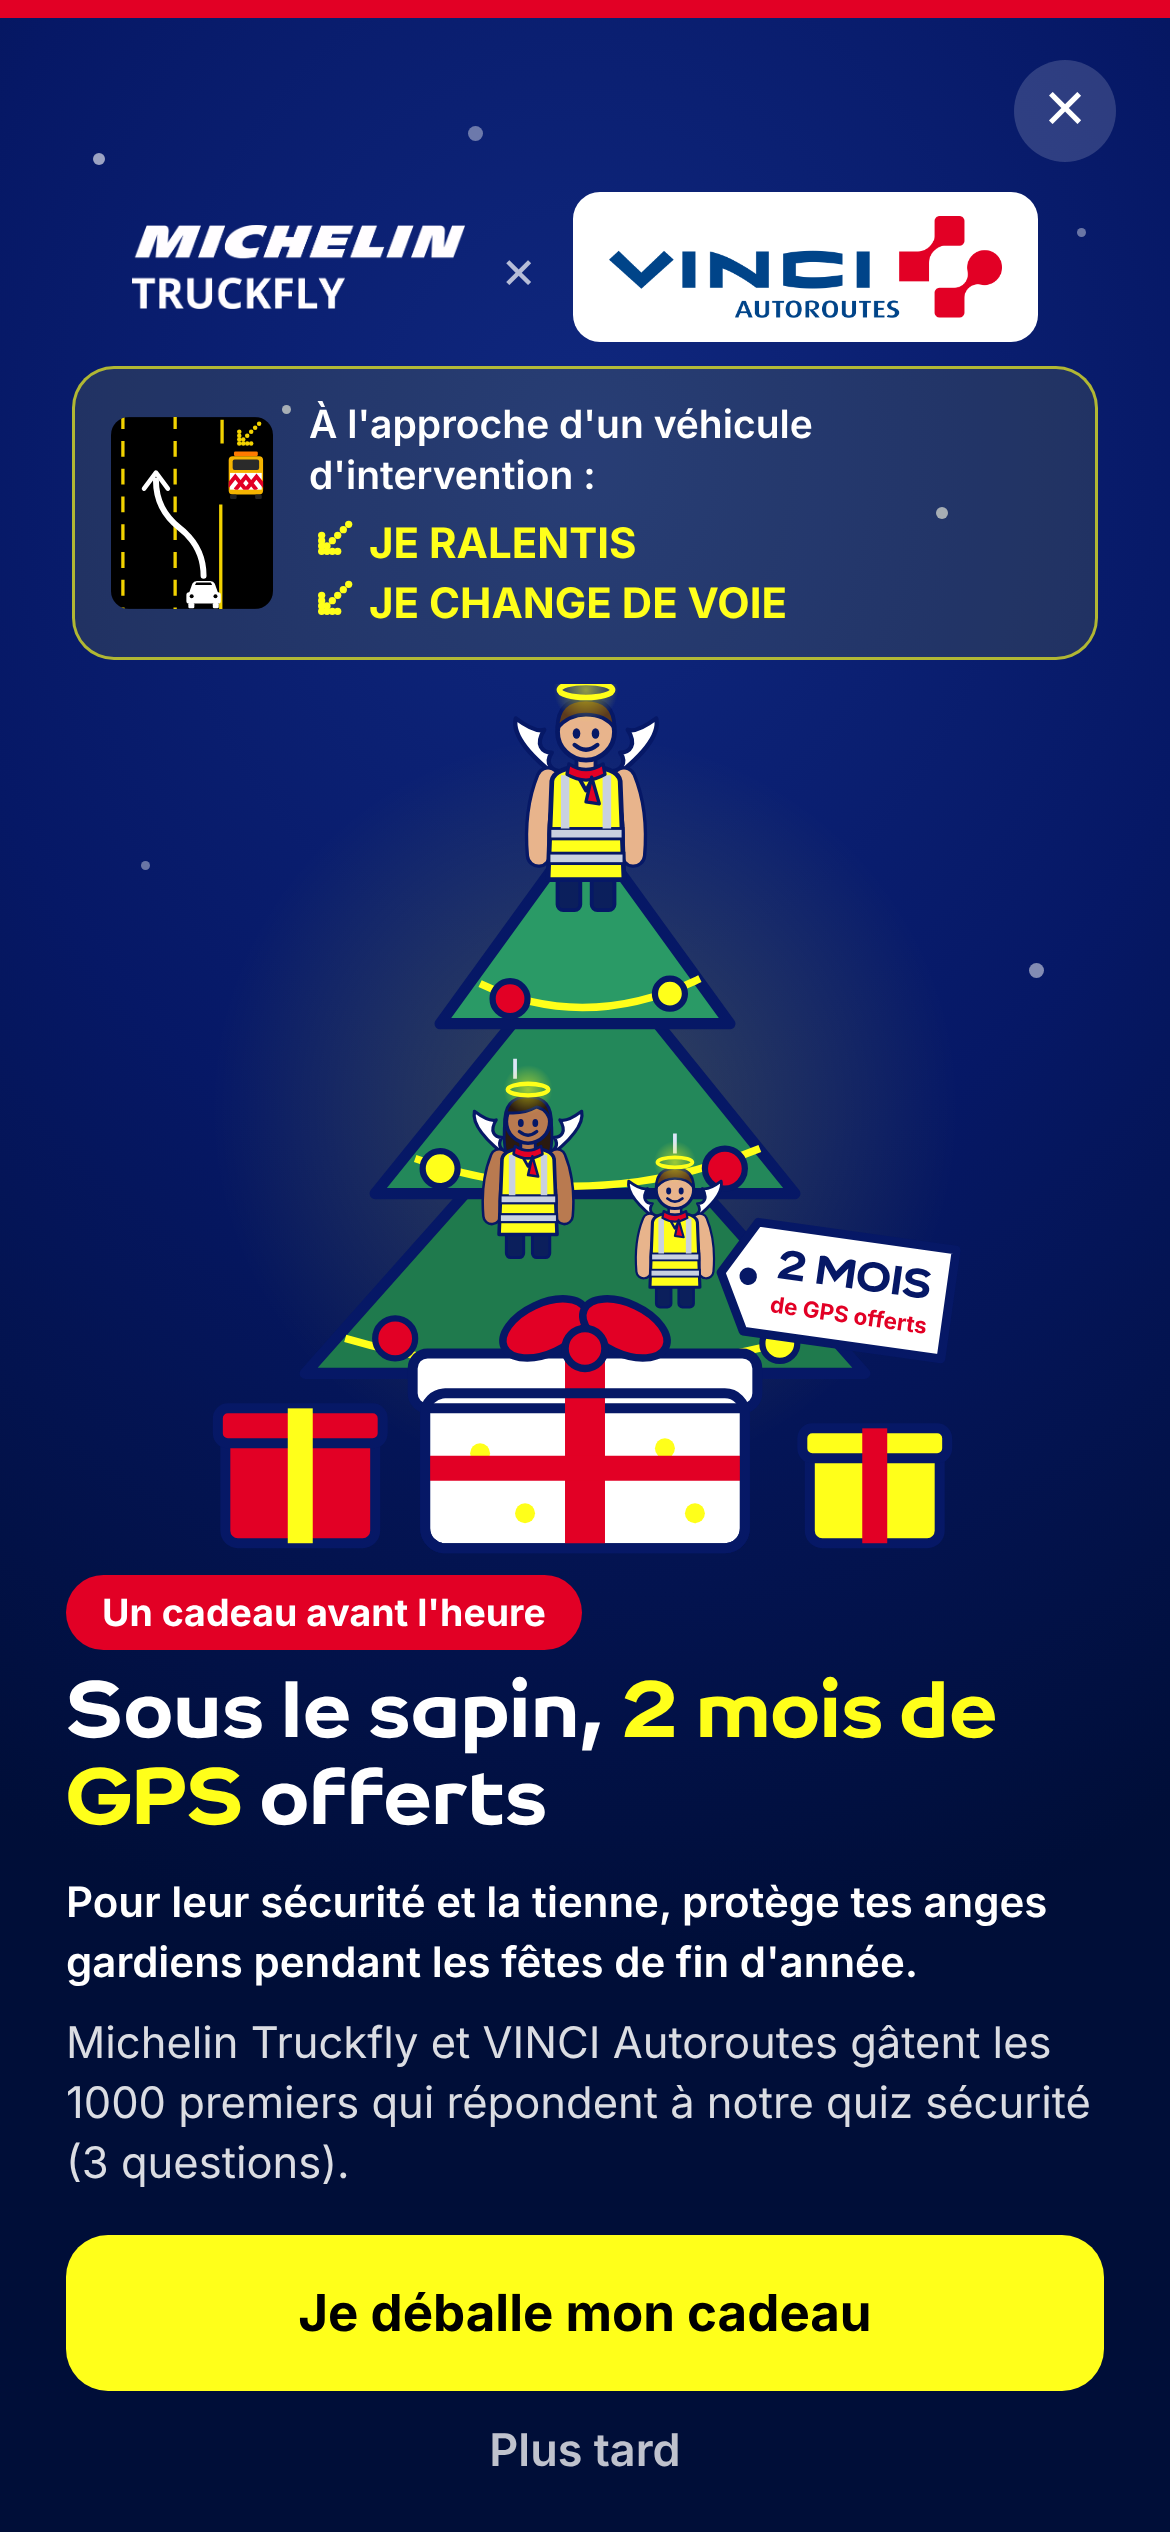
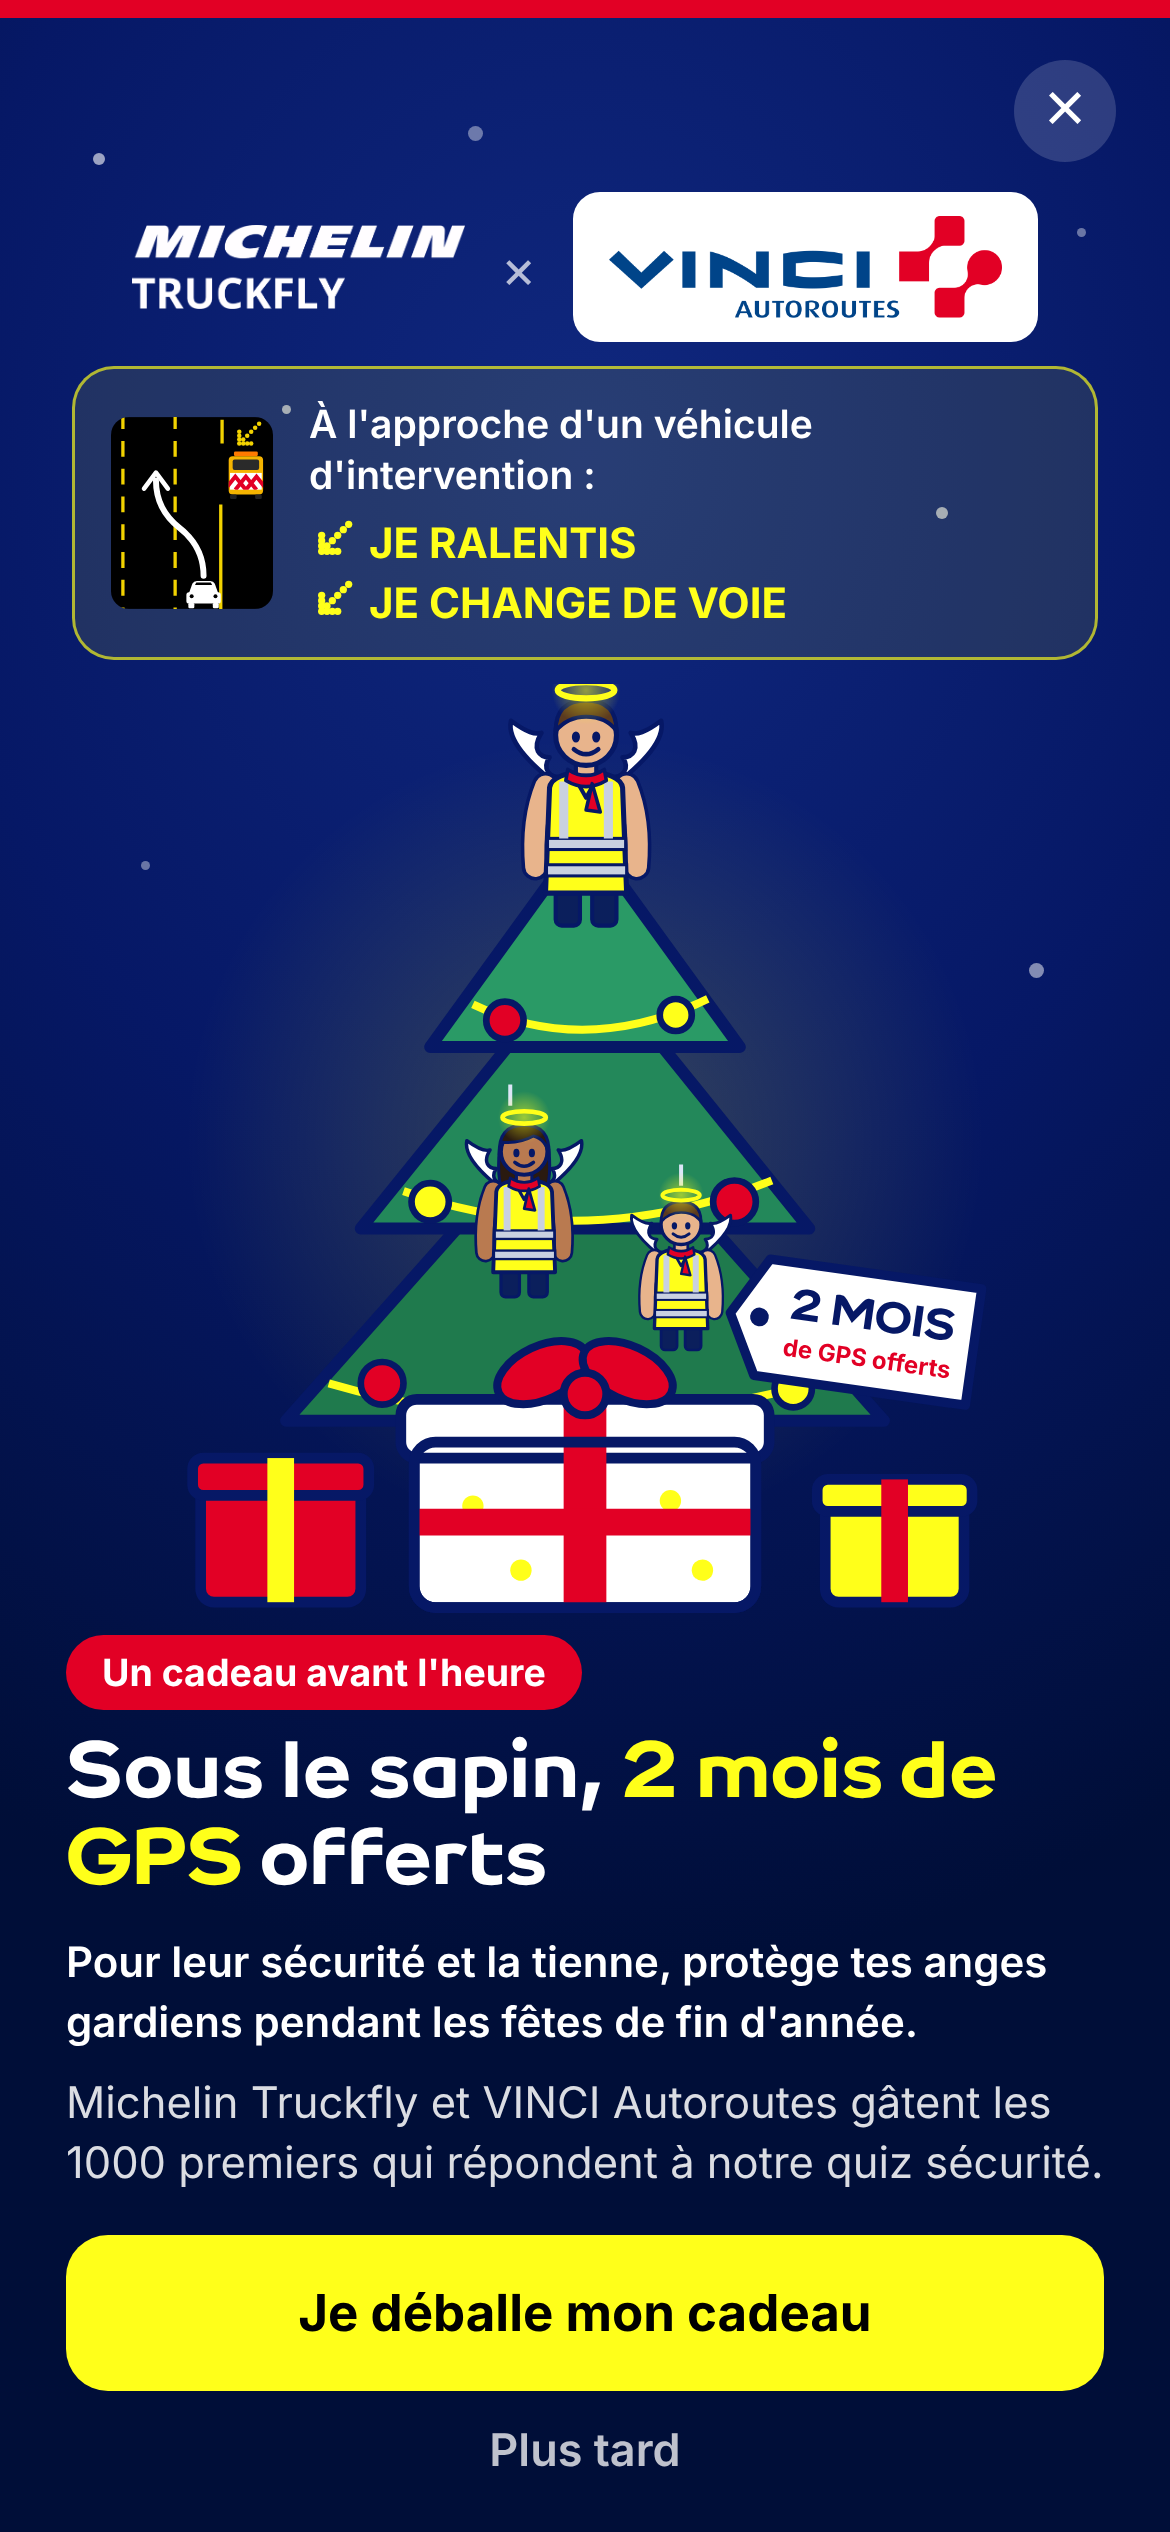
Interstitiel VINCI : retrait de « (3 questions) » dans la proposition C
Claude-Session: https://claude.ai/code/session_01Dxf6WJt6yEW2EorFoXnocV

Changed region(s): [[0.0615, 0.2808, 0.9231, 0.8736]]

diff --git a/interstitiels/vinci-fetes/index.html b/interstitiels/vinci-fetes/index.html
@@ -396,7 +396,7 @@ b.fort { color: #000; }
     <span class="badge entre" style="--d:.4s">Un cadeau avant l'heure</span>
     <h1 class="entre" style="--d:.5s">Sous le sapin, <span class="jaune-txt">2 mois de GPS</span> offerts</h1>
     <p class="texte accroche entre" style="--d:.6s">Pour leur sécurité et la tienne, protège tes anges gardiens pendant les fêtes de fin d'année.</p>
-    <p class="texte entre" style="--d:.65s">Michelin Truckfly et VINCI Autoroutes gâtent les 1000 premiers qui répondent à notre quiz sécurité (3 questions).</p>
+    <p class="texte entre" style="--d:.65s">Michelin Truckfly et VINCI Autoroutes gâtent les 1000 premiers qui répondent à notre quiz sécurité.</p>
     <a class="cta jaune">Je déballe mon cadeau</a>
     <a class="plus-tard">Plus tard</a>
   </div>
